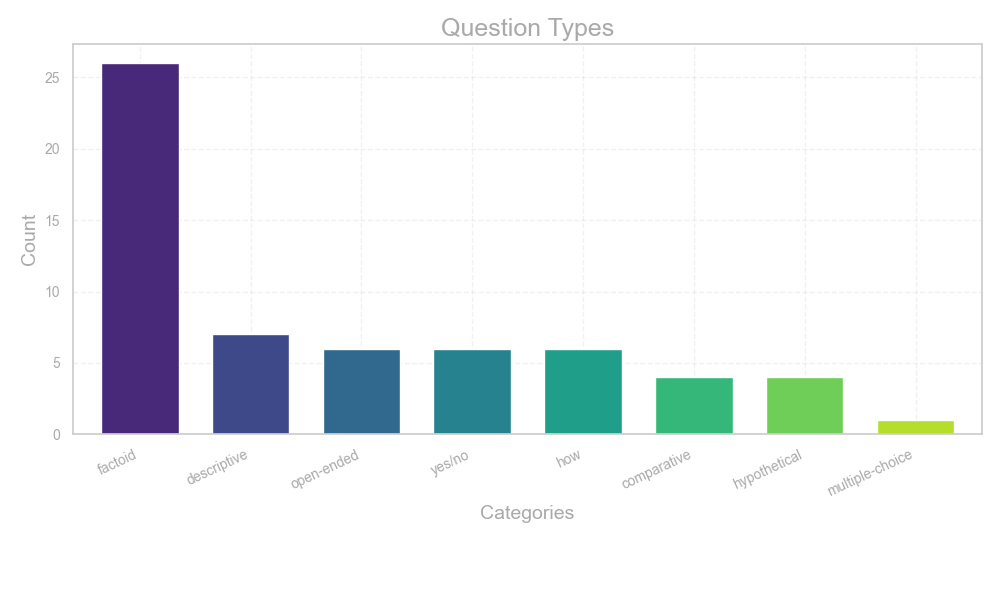
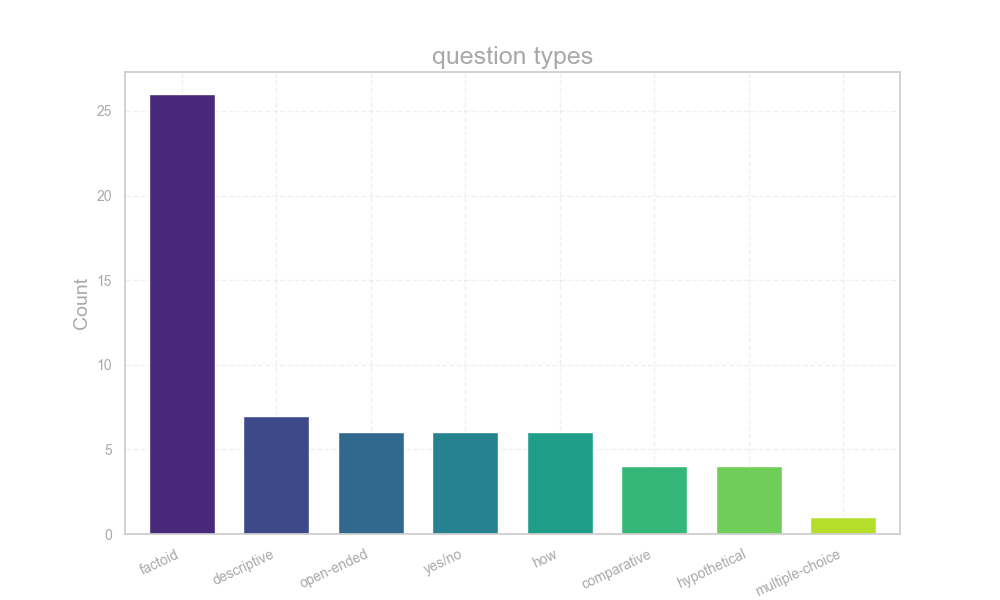
Updated plot and DOCUMENTATION.md to show handmade question categories plot

diff --git a/DOCUMENTATION.md b/DOCUMENTATION.md
@@ -160,6 +160,9 @@ Given these reliability issues, the fully automated approach was completely aban
 ![Figure 3](project_docs/semiAutoQuestionTypes.png)
 After quality checks, the resulting semi-automated dataset consisted of 53 question-answer pairs of which the majority were yes/no question-answer pairs (9), followed by comparative (8) and "what" (8) as well as "how" (6) and "open-ended" (6) questions. 
  
+![Figure 4](project_docs/handmadeQuestionTypes.png)
+The handmade question dataset comprises of 60 total question answer pairs, of which the majority were of the type factoid (26) and descriptive (7) questions, followed by open-ended (6), yes/no (6), how (6), comparative (4), hypothetical (4) and multiple-choice (1) questions. 
+
 ### Evaluation Method
 To reproducibly determine the best possible system with the given components, we ran a grid-search script that tests [TODO: INSERT NUMBER OF COMBINATIONS] combinations end-to-end, computing their performance measured by the [TODO: INSERT USED METRICS] scores on our validation set consisting of [TODO: INSERT NUMBER OF QUESTIONS IN THE VALIDATION SET]. 
 
